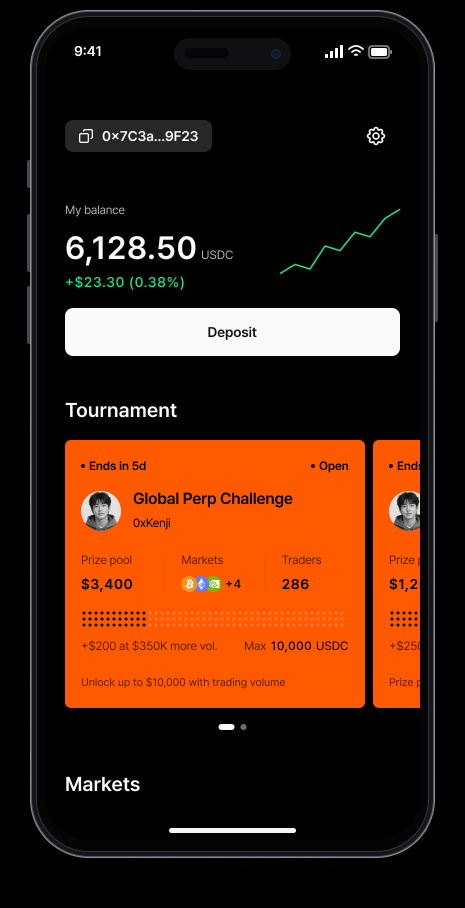
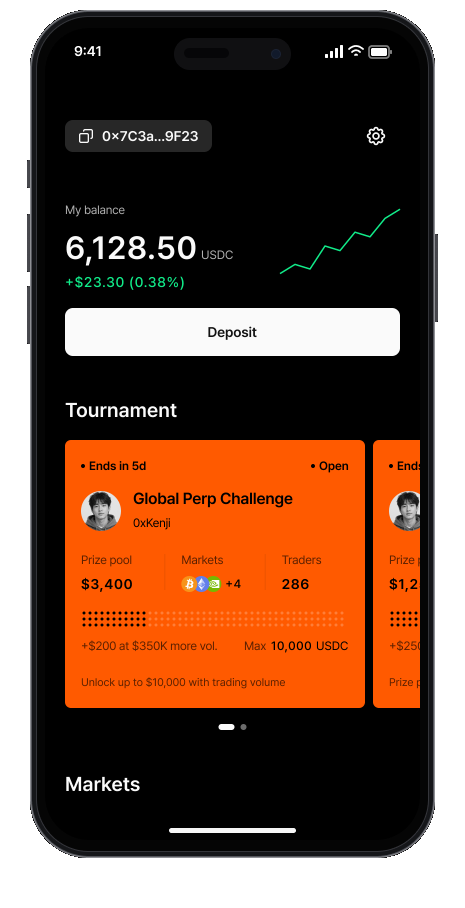
Get started: two-column layout per Figma, phone bottom-aligned to the steps
- Copy and stacked step cards on the left, phone mockup (90% size) flush right
  in the column, its bottom on the last step card.
- Mockup PNGs: transparent outside the phone, including the grey box under
  the order phone's corners.
- Phone swap fades screen and frame together down to opacity 0, with motion
  that is fastest while it is faint; the separate screen-dim overlay is gone.

Changed region(s): [[0.0, 0.0, 1.0, 1.0]]

diff --git a/index.html b/index.html
@@ -348,11 +348,8 @@
 
 <section id="start">
   <!-- App mockups (Figma 104:21331 home, 109:4637 order); landing.js brings them up out of the dark and scrolls their screens -->
-  <div class="st-mocks" aria-hidden="true">
-    <div class="st-mock" data-mock="home"><div class="st-phone"><img src="assets/img/mockup/app-home.png" width="465" height="908" alt=""><span class="st-feedwin"><img class="st-feed" src="assets/img/mockup/app-home-screen.png" width="375" height="1471" alt=""></span><img class="st-chrome st-chrome--top" src="assets/img/mockup/app-home.png" width="465" height="908" alt=""><img class="st-chrome st-chrome--bot" src="assets/img/mockup/app-home.png" width="465" height="908" alt=""><span class="st-screen"></span></div></div>
-    <div class="st-mock" data-mock="order"><div class="st-phone"><img src="assets/img/mockup/app-order.png" width="465" height="908" alt=""><span class="st-feedwin"><img class="st-feed" src="assets/img/mockup/app-order-screen.png" width="375" height="1256" alt=""></span><img class="st-chrome st-chrome--top" src="assets/img/mockup/app-order.png" width="465" height="908" alt=""><img class="st-chrome st-chrome--bot" src="assets/img/mockup/app-order.png" width="465" height="908" alt=""><span class="st-screen"></span></div></div>
-  </div>
-  <div class="wrap">
+  <div class="wrap st-grid">
+    <div class="st-copy">
     <div class="stack sec-head">
       <p class="eyebrow">Get started</p>
       <h2>Three steps to your first trade.</h2>
@@ -361,6 +358,11 @@
       <div class="stack step"><span class="n led">01</span><h3>Sign up</h3><p>Use Google, Apple or email. Your trading account is created for you, with no wallet to install.</p></div>
       <div class="stack step"><span class="n led">02</span><h3>Fund your account</h3><p>Deposit digital dollars (USDC). The app shows your deposit address and walks you through each step.</p></div>
       <div class="stack step"><span class="n led">03</span><h3>Pick a ticker and trade</h3><p>Choose long or short, set your leverage, and place the order. Close it whenever you want.</p></div>
+    </div>
+    </div>
+    <div class="st-mocks" aria-hidden="true">
+      <div class="st-mock" data-mock="home"><div class="st-phone"><img src="assets/img/mockup/app-home.png" width="465" height="908" alt=""><span class="st-feedwin"><img class="st-feed" src="assets/img/mockup/app-home-screen.png" width="375" height="1471" alt=""></span><img class="st-chrome st-chrome--top" src="assets/img/mockup/app-home.png" width="465" height="908" alt=""><img class="st-chrome st-chrome--bot" src="assets/img/mockup/app-home.png" width="465" height="908" alt=""></div></div>
+      <div class="st-mock" data-mock="order"><div class="st-phone"><img src="assets/img/mockup/app-order.png" width="465" height="908" alt=""><span class="st-feedwin"><img class="st-feed" src="assets/img/mockup/app-order-screen.png" width="375" height="1256" alt=""></span><img class="st-chrome st-chrome--top" src="assets/img/mockup/app-order.png" width="465" height="908" alt=""><img class="st-chrome st-chrome--bot" src="assets/img/mockup/app-order.png" width="465" height="908" alt=""></div></div>
     </div>
   </div>
 </section>

diff --git a/assets/css/landing.css b/assets/css/landing.css
@@ -672,14 +672,22 @@ label.check small { color: var(--fg-muted); margin-left: auto; font-family: var(
 /* Get started (Figma 45:8985): the app mockup sits centred above the content; the eyebrow and heading start just
    above the phone's bottom edge. The export includes the phone's shadow margin (465 x 908 for a 411 x 848 phone).
    Content starts 91.2% of the way down the image (y858 in a 1236px frame), 60px below the cards. */
-#start { --mock-w: min(372px, 68vw); /* 80% of the Figma size (465px export) */ position: relative; overflow: clip; --mock-h: calc(var(--mock-w) * 908 / 465); padding: calc(160px + var(--mock-h) * 848 / 908 + 64px) 0 60px; } /* 160px above the phone body, 64px between the phone and the content */
-#start > .wrap { position: relative; z-index: 1; }
-.st-mocks { position: absolute; left: 0; right: 0; top: calc(160px - var(--mock-h) * 30 / 908); display: grid; justify-content: center; pointer-events: none; z-index: 0; } /* the phones share one spot and take turns */
-.st-mock { grid-area: 1 / 1; position: relative; width: var(--mock-w); perspective: 1600px; visibility: hidden; }
-.st-phone { position: relative; transform-origin: 50% 85%; will-change: transform, filter; }
+#start { position: relative; overflow: clip; padding: 142px 0 186px; } /* Figma 45:8985: copy left, phone right */
+.st-grid { display: grid; grid-template-columns: minmax(0, 1fr) auto; align-items: start; column-gap: 32px; }
+#start .sec-head { margin-bottom: 52px; }
+#start .steps { grid-template-columns: minmax(0, 352px); gap: 22.5px; } /* steps at 277 / 512 / 747 as in Figma */
+.st-mocks { display: grid; width: 418.5px; margin: -9px -24.3px -45px 0; align-self: end; pointer-events: none; } /* 90% of the 465px export (phone body 370px); the negative margins drop the transparent edges (10px above, 50px below the phone in the export) so the phone body sits flush right in the column, its bottom on the last step card */
+.st-mock { grid-area: 1 / 1; position: relative; width: 100%; perspective: 1600px; visibility: hidden; } /* the phones share one spot and take turns */
+@media (max-width: 900px) {
+  #start { padding: 84px 0; }
+  .st-grid { grid-template-columns: minmax(0, 1fr); }
+  .st-mocks { order: -1; width: min(372px, 68vw); justify-self: center; margin: 0 0 64px; }
+  #start .sec-head { margin-bottom: 32px; }
+  #start .steps { grid-template-columns: minmax(0, 1fr); gap: 12px; }
+}
+.st-phone { position: relative; transform-origin: 50% 85%; will-change: transform, opacity; }
 .st-phone img { display: block; width: 100%; height: auto; }
 /* the display area (screen inset in the export), darkened until the phone "wakes" */
-.st-screen { position: absolute; left: 9.7%; right: 9.7%; top: 5.3%; bottom: 5.3%; border-radius: 10% / 4.8%; background: #000; opacity: 0; will-change: opacity; }
 /* In-phone scrolling (the export is 465 x 908; the display sits at x45-420, y48-860; status bar to y92, home strip
    from y834). The long home screen (375 x 1471, 2x asset) scrolls in a window between the two strips; copies of the
    phone export, clipped to the status bar and the home-indicator strip, sit on top so they stay put like a real phone. */

diff --git a/assets/js/landing.js b/assets/js/landing.js
@@ -382,10 +382,10 @@
 
   /* Get started: two app mockups (home, order) take turns in one spot (ohayo-motion: time-driven, out / in-out).
      Each phone's 12.5s turn:
-       0-1.5s    it rises out of the dark, tipped back ~38deg with a slight turn and roll, settling flat; the screen
-                 "wakes" over 1.0-1.5s
+       0-1.5s    it fades up from opacity 0 while rising, tipped back ~38deg with a slight turn and roll, settling flat; screen and
+                 frame fade as one
        2.5-11s   its feed scrolls like a finger flick (in-out): down to the first stop, pause, down to the end, pause
-       11-12.5s  the entrance plays in reverse: the screen dims, the phone tips back and sinks into the dark
+       11-12.5s  the entrance plays in reverse: the whole phone (screen and frame together) tips back, sinks and fades out to opacity 0
      Then the other phone takes its turn (home -> order -> home ...), forever. The clock only runs while the section
      is on screen; reduced motion shows the home phone, still. */
   (function () {
@@ -401,7 +401,7 @@
       order: [[0, 0], [2500, 0.62], [4000, 0.62], [6500, 1], [8500, 1]]     /* order form, then balances */
     };
     var phones = [].map.call(sec.querySelectorAll('.st-mock'), function (m, k) {
-      return { el: m, body: m.querySelector('.st-phone'), scr: m.querySelector('.st-screen'), feed: m.querySelector('.st-feed'), win: m.querySelector('.st-feedwin'),
+      return { el: m, body: m.querySelector('.st-phone'), feed: m.querySelector('.st-feed'), win: m.querySelector('.st-feedwin'),
         keys: KEYS[m.getAttribute('data-mock')] || KEYS.home, mirror: k % 2 ? -1 : 1 };
     });
     function scrollAt(keys, c) {
@@ -412,10 +412,11 @@
       return keys[keys.length - 1][1];
     }
     function pose(p, e) {                                                   /* e = entrance time 0..IN (exit = e reversed) */
-      var m = inOut(clamp(e / IN)), lit = out(clamp(e / 1250)), wake = out(clamp((e - 1000) / 500)), s = p.mirror;
+      /* motion eases out (fastest at the start) and opacity rises from 0 with it, so the phone is never seen
+         half-lit and standing still; the exit runs the same path backwards, down to opacity 0 */
+      var m = out(clamp(e / IN)), a = clamp(e / 1000), op = a * a * (3 - 2 * a), s = p.mirror;
       p.body.style.transform = 'translateY(' + (120 * (1 - m)).toFixed(1) + 'px) rotateX(' + (38 * (1 - m)).toFixed(2) + 'deg) rotateY(' + (-14 * s * (1 - m)).toFixed(2) + 'deg) rotateZ(' + (5 * s * (1 - m)).toFixed(2) + 'deg) scale(' + (0.9 + 0.1 * m).toFixed(4) + ')';
-      p.body.style.filter = lit < 1 ? 'brightness(' + lit.toFixed(3) + ')' : 'none';
-      p.scr.style.opacity = (0.92 * (1 - wake)).toFixed(3);
+      p.body.style.opacity = op.toFixed(3);
     }
     function render(T) {
       var cyc = T % (TURN * phones.length), turn = Math.floor(cyc / TURN), t = cyc - turn * TURN;
